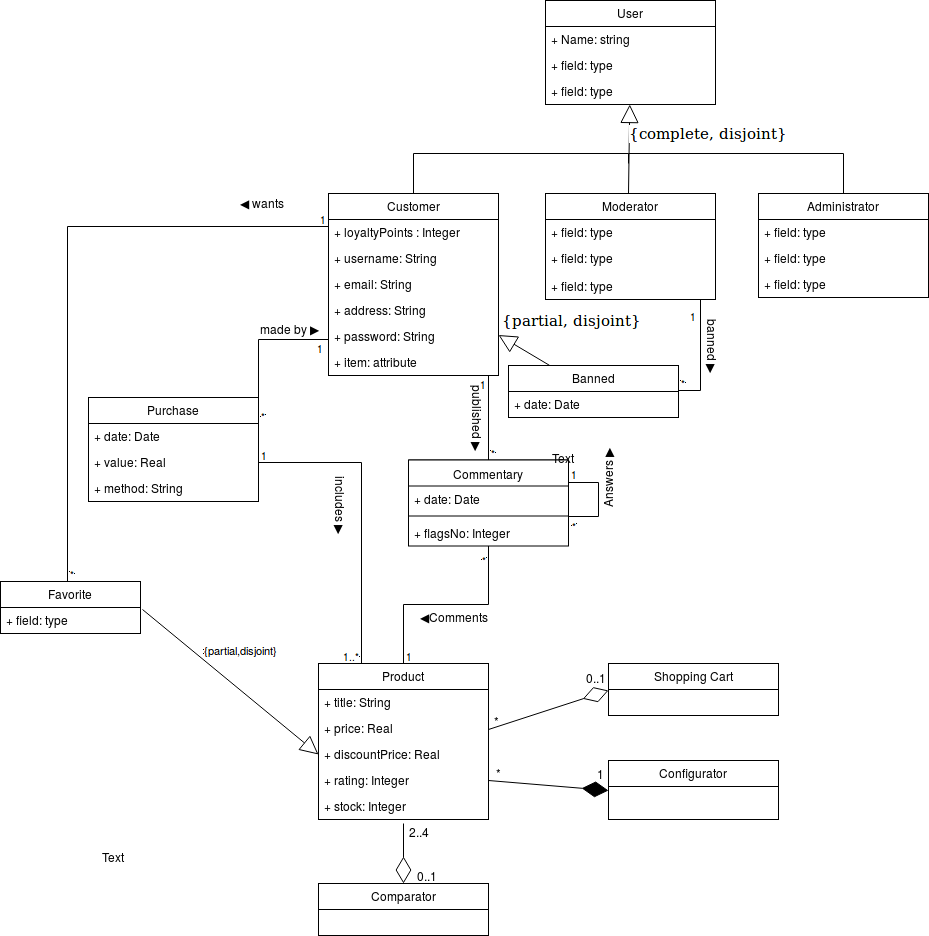
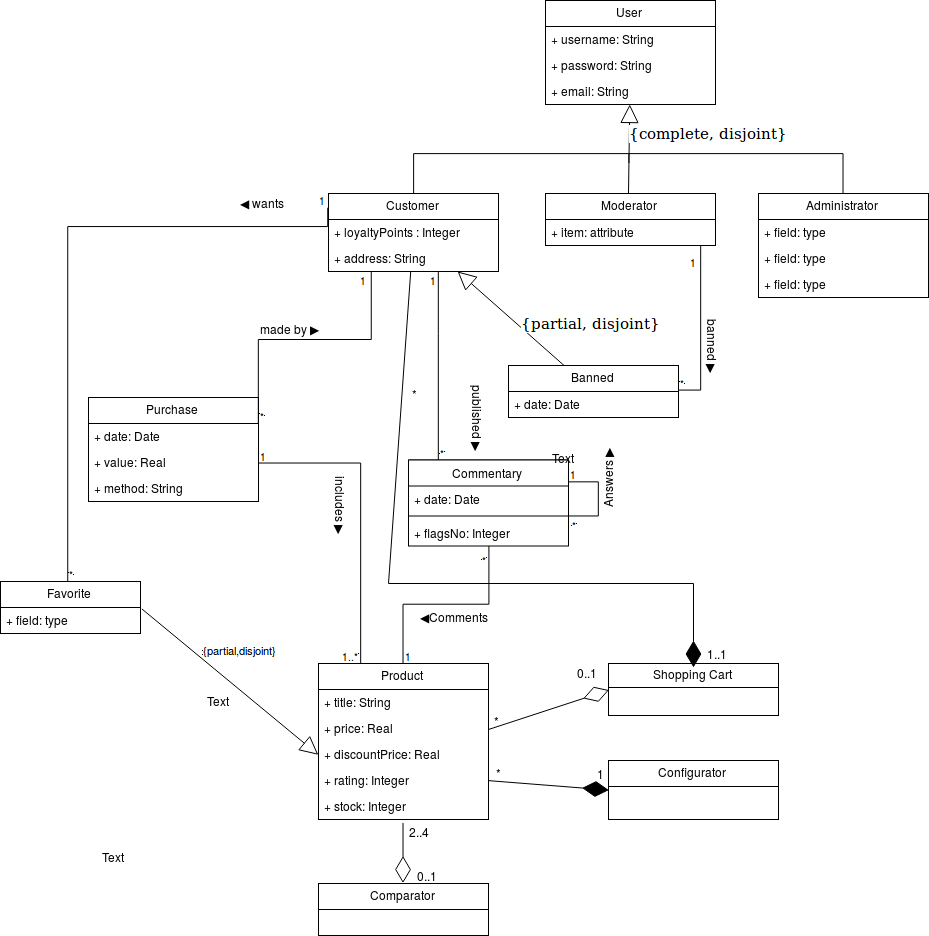
updated a4

diff --git a/A4/A4.md b/A4/A4.md
@@ -2,85 +2,27 @@
  
 ## 1. Class diagram
 
+The diagram in Figure 1 presents the main organisational entities, the relationships between them, attributes and the multiplicity of relationships for _**SonicFlow**_. 
+
 ![](./Conceptual_Data_Model.png)
+Figure 1: UML conceptual data model.
 
 > UML class diagram containing the classes, associations, multiplicity and roles.
 > For each class, the attributes, associations and constraints are included in the class diagram
  
 ## 2. Additional Business Rules
 
-Estas business rules são para tudo o que não está expresso no diagrama. Ver modelo e ir tirando as que já são "representadas". São as do A2
+Besides the conceptual data model shown before, we have included some extra rules to facilitate the understanding of our data model.
 
-### 2.2. Visitor
-|Identifier	|Name	|Priority	|Description|
-|:---------:|-----|:-------:|-----------|
-|US11|Log in	|high|	As a Visitor, I want to authenticate into the system, so that I can access privileged information.|
-|US12|Register |high|	As a Visitor, I want to register myself into the system, so that I can authenticate myself into the system.|
-|US13|Register using external API|low|	As a Visitor, I want to use register a new account linked to my Google/Facebook account, so that I can access privileged information.|
-|US14|Log in using external API|low|	As a Visitor, I want to log in through my Google/Facebook account, so that I can authenticate myself into the system.|
-
-Table 3: Visitor's user stories.
-
-### 2.3. Customer
-|Identifier	|Name	|Priority	|Description|
-|:---------:|-----|:-------:|-----------|
-|US21|Product in Cart|high|	As a Customer, I want to put a product in my cart, so that I can go through with the buy.|
-|US22|Checkout|high|	As a Customer, I want to got through with the checkout, so that I can pay for the items in my cart.|
-|US23|Pay Products|high| As a Customer, I want to pay for the items in my cart, so that I can complete the order.|
-|US23|Favorites add|high|	As a Customer, I want to add an item to my favorites.|
-|US24|Comment|high|	As a Customer, I want to register a comment, so that I can manifest my opinion about a product.|
-|US25|Rate|high|	As a Customer, I want to rate a product, so that I can classify it.|
-|US26|Purchase History|medium|	As a Customer, I want to access my purchase history, so that I can see what I have previously bought.|
-|US27|Newsletter|medium|	As a Customer, I want to enable or disable newsletter, so that I can recieve updates on new products and promotions.|
-|US28|Availability|low| As a Custumer, I want to be able to be notified when a product is available, so that I know a product I want is currently in stock.|
-
-Table 4: Customer's user stories.
-
-### 2.4. Moderator
-|Identifier	|Name	|Priority	|Description|
-|:---------:|-----|:-------:|-----------|
-|US31|Remove Comments|high|	As a Moderator, I want to remove a comment, so that I remove inappropriate content.|
-|US32|Add Offense|medium|	As a Moderator, I want to record the number of offenses commited by a system user, so that moderators know how many times he has engaged in improper behavior.|
-|US33|Ban User|medium|	As a Moderator, I want to be able to ban a user when he commited too many offenses, so that I can punish improper behavior.|
-
-Table 5: Moderator's user stories.
-
-### 2.5. Administrator
-|Identifier	|Name	|Priority	|Description|
-|:---------:|-----|:-------:|-----------|
-|US41|Add Product|high|As an Administrator, I want to add a product, so that I can provide new items to the system.|
-|US42|Remove Product|high|As an Administrator, I want to remove a product, so that I can take an item off from the system.|
-|US43|Modify Product|high|As an Administrator, I want to change a product's attributes, so that I can update the information of a given product.|
-
-### 2.6.Owner
-|Identifier	|Name	|Priority	|Description|
-|:---------:|-----|:-------:|-----------|
-|US51|Edit Profile|high|I want to change my information, so that I can keep it updated (e.g. password,address,profile picture).|
-|US52|Remove Comment|high|As an Owner, I want to remove a comment I made on a product, so that I can correct mistakes or rewrite history.|
-|US53|Favorites remove|high|	As an Owner, I want to remove an item from my favorites.|
-|US54|Account Delete|high|	As an Owner, I want to be able to delete my account.|
-
-### 2.7 BRs
 |Identifier	|Name	|Description|
 |:---------:|-----|-----------|
 |BR01|Consistency|A customer can only comment on a product he has previously bought.|
-|BR02|Stock Management|A product can only be bought if it is available.|
-|BR04|Loyalty Discounts|1000 LP can be used as a 10% discount on a single purchase. This purchase will not add LP.|
-|BR05|Comment History|When a comment is deleted it should be replaced with a generic [DELETED] comment. This prevents confusion in comments' history.||Identifier	|Name	|Description|
-|:---------:|-----|-----------|
-|BR01|Consistency|A customer can only comment on a product he has previously bought.|
-|BR02|Stock Management|A product can only be bought if it is available.|
-|BR03|Configurator|The configurator only uses products that are desktop computer parts.|
-
- * adicionar regra sobre customer so por comentario num produto que comprou
+|BR02|Loyalty |For each purchase the user gets 1 Loyalty Point.|
+|BR03|Comment History|When a comment is deleted it should be replaced with a generic [DELETED] comment.|
 
 > Business rules can be included in the UML diagram as UML notes or in a table in this section.
  
 ## Revision history
- 
-Changes made to the first submission:
-1. Item 1
-1. Item 2
  
 ***
  
